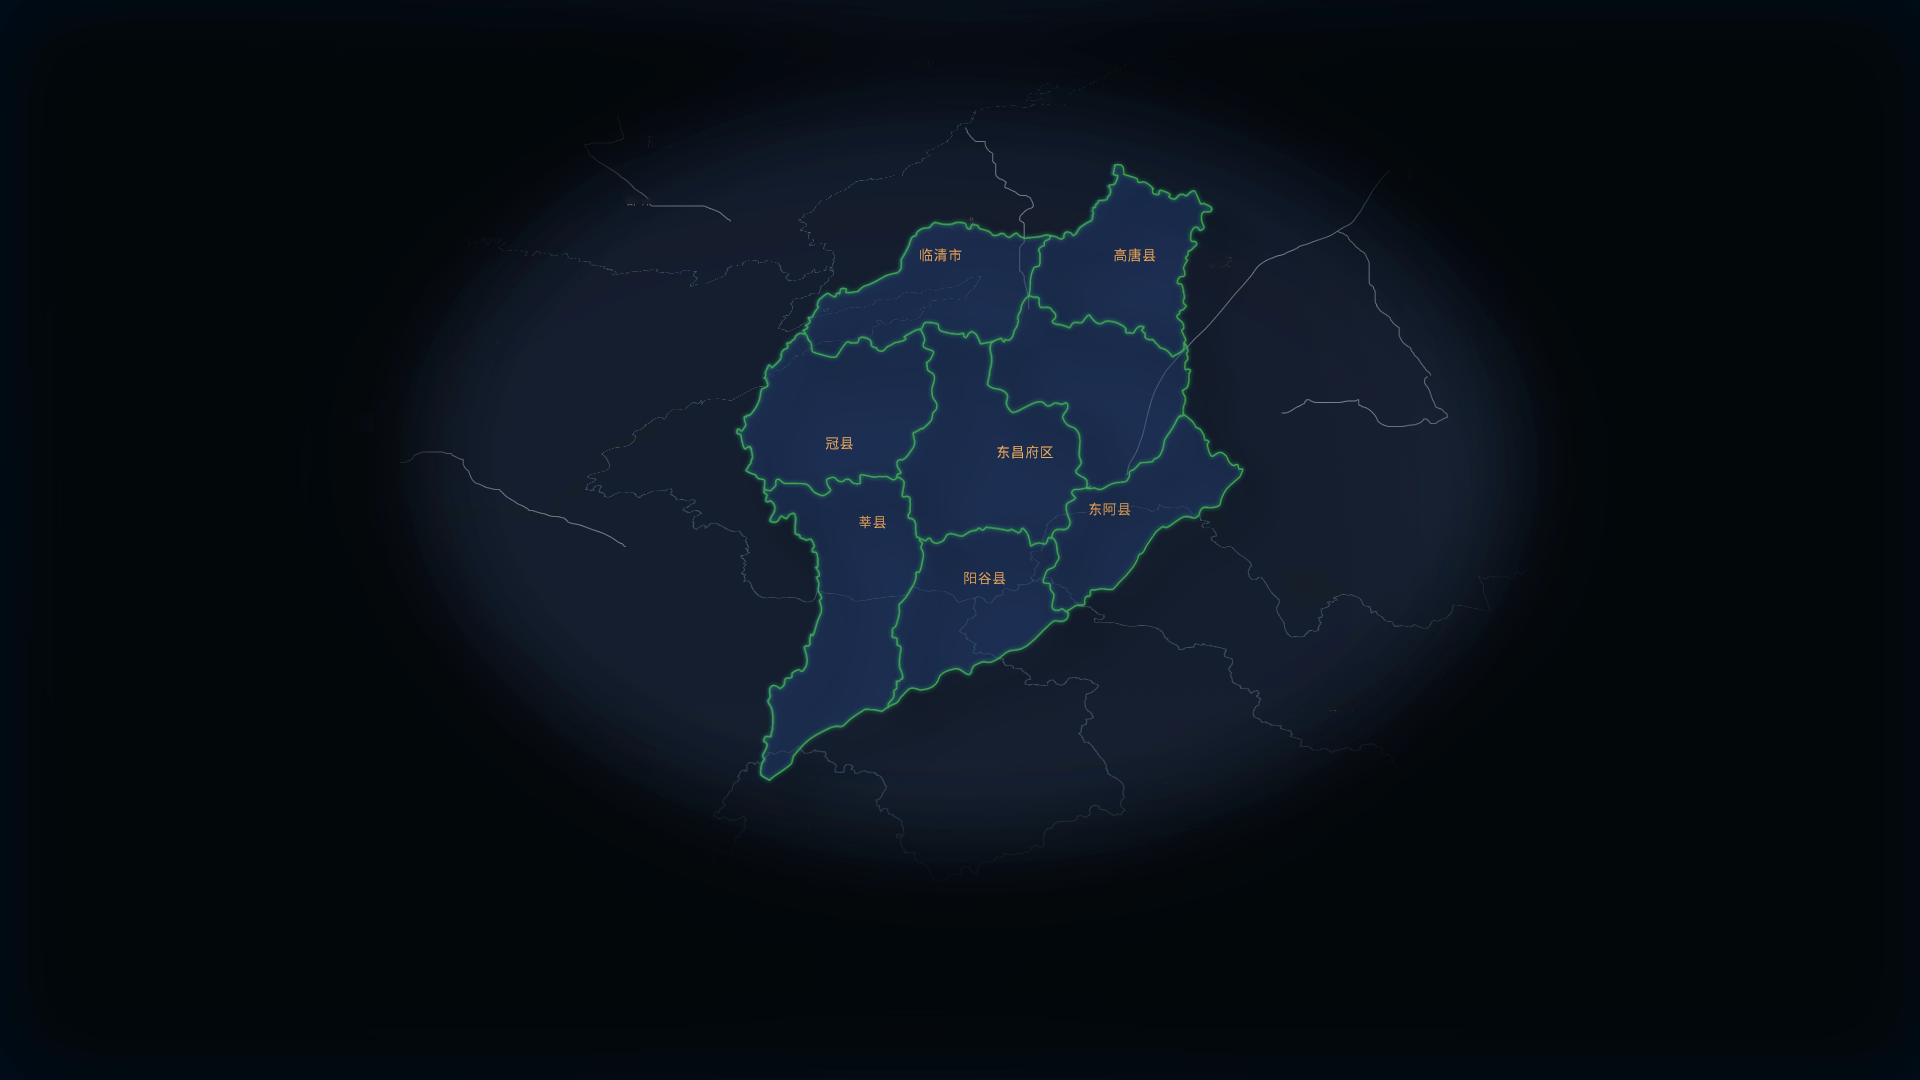
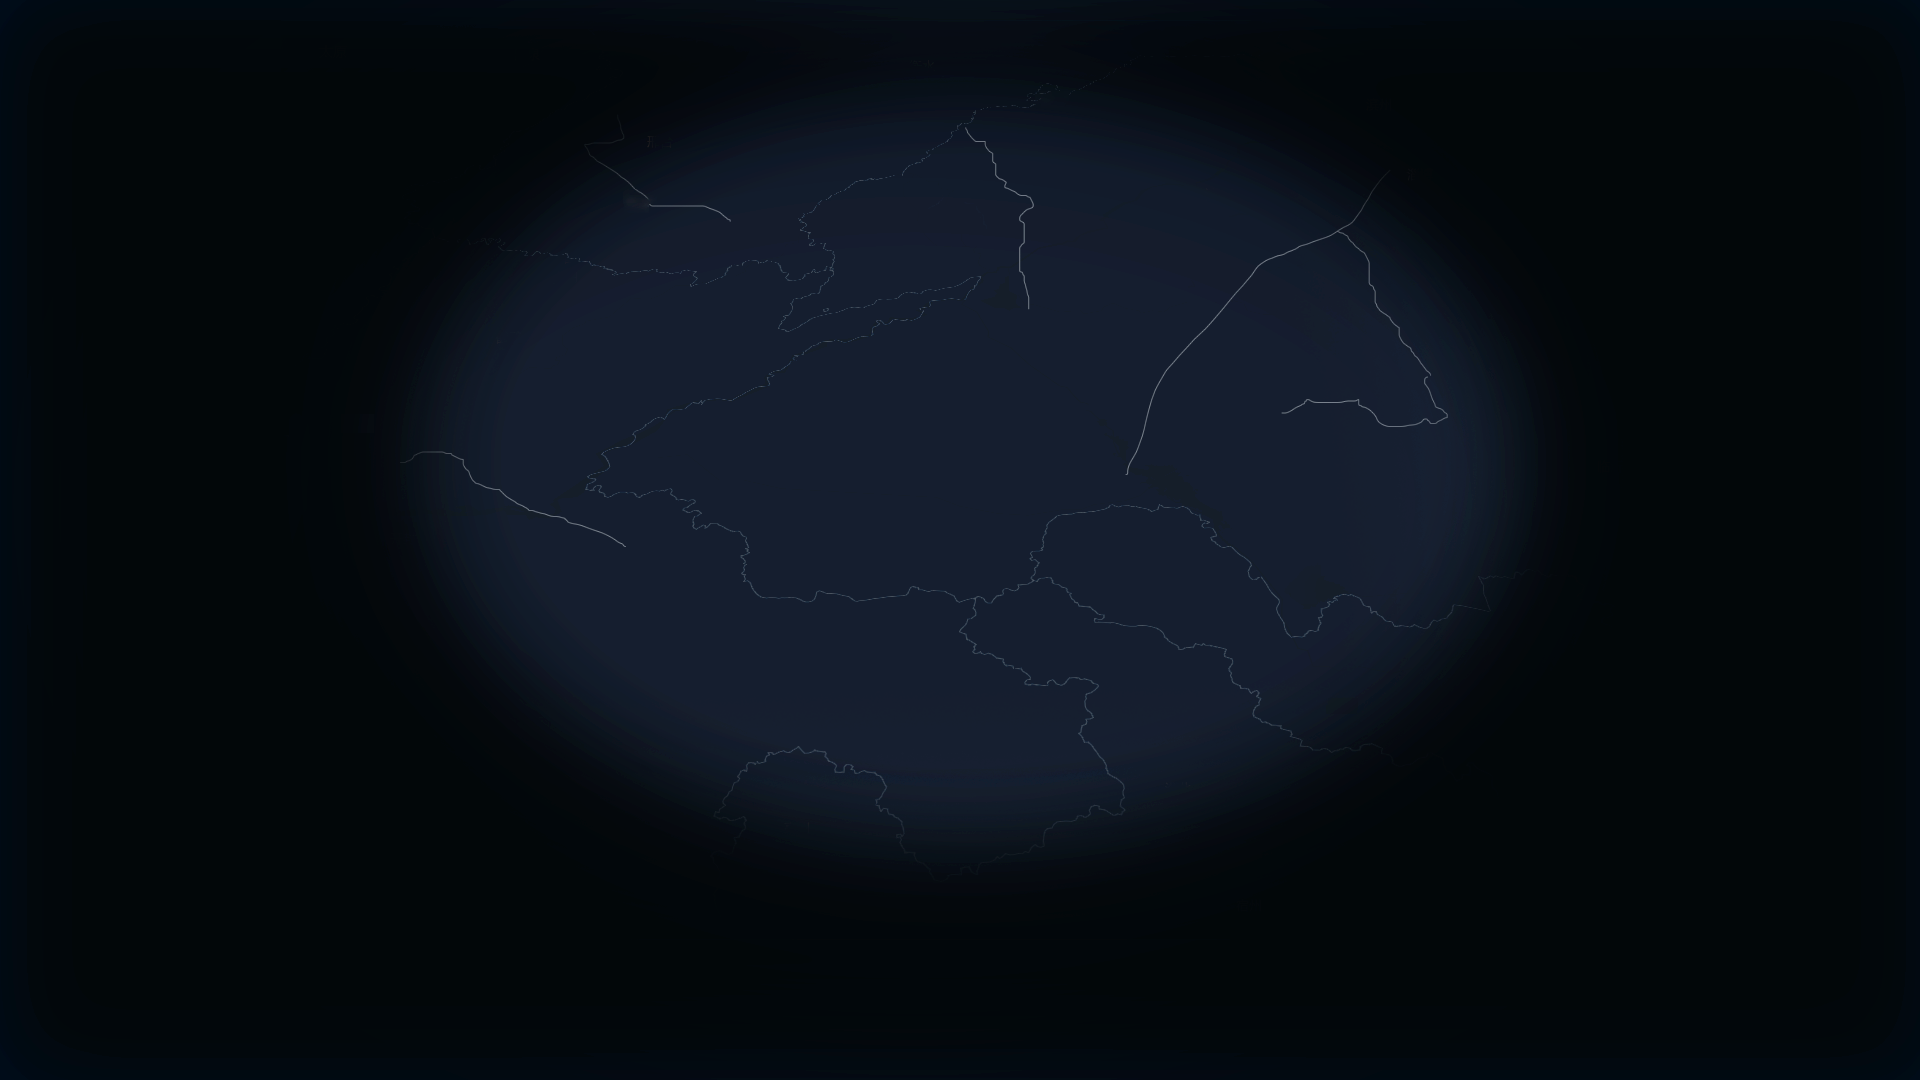
调整大数据首屏

Changed region(s): [[0.375, 0.1528, 0.6562, 0.7333]]

diff --git a/src/views/project/multiScreen/center/atlas/index.vue b/src/views/project/multiScreen/center/atlas/index.vue
@@ -1,0 +1,155 @@
+<template>
+  <div style="height: 100%; width: 100%;"
+       ref="chart">
+  </div>
+</template>
+
+<script>
+import NnCity from '@/components/map/basic/NnCity.json'
+let Echarts = require('echarts/lib/echarts')
+export default {
+  name: 'Index',
+  props: {
+    cityValue: String
+  },
+  watch: {
+    cityValue: {
+      handler (newValue) {
+        this.option.series[0].data = this.option.series[0].data.map(item => {
+          return {
+            ...item,
+            selected: item.value === newValue
+          }
+        })
+        this.$nextTick(() => {
+          this.chart.setOption(this.option, true)
+          this.chart.resize()
+        })
+      },
+      immediate: true
+    }
+  },
+  data () {
+    return {
+      chart: null,
+      option: {
+        grid: {
+          top: 35,
+          left: 55,
+          right: 45,
+          width: 'auto',
+          height: 'auto'
+        },
+        tooltip: {
+          show: false,
+          trigger: 'item',
+          formatter: '{b}'
+        },
+        label: {
+          show: true,
+          fontSize: '12',
+          color: '#000',
+          borderColor: 'transparent',
+          shadowColor: 'transparent',
+          textBorderColor: 'transparent'
+        },
+        textStyle: {
+          color: '#000'
+        },
+        series: [
+          {
+            name: '南宁市',
+            type: 'map',
+            map: 'LS',
+            roam: true,
+            zoom: 2.5,
+            scaleLimit: {
+              min: 1,
+              max: 3
+            },
+            itemStyle: {
+              normal: {
+                borderColor: 'rgba(62,146,84,0.4)', // 边界颜色
+                areaColor: 'rgba(26,43,84,0.4)', // 区域颜色
+                borderWidth: 2,
+                shadowBlur: 5
+              },
+              emphasis: {
+                show: false, // 鼠标移入样式
+                areaColor: 'rgba(26,43,84,1)',
+                borderColor: 'rgba(62,146,84,1)',
+                borderShadow: 'rgba(62,146,84,.5)',
+                shadowBlur: 10
+              }
+            },
+            label: {
+              // 文字样式
+              normal: {
+                show: true,
+                fontSize: 12,
+                color: '#85694F'
+              },
+              emphasis: {
+                color: '#fff',
+                fontWeight: 'normal'
+              }
+            },
+            select: {
+              label: {
+                show: true,
+                color: '#fff'
+              },
+              itemStyle: {
+                areaColor: 'rgba(26,43,84,1)',
+                borderColor: 'rgba(62,146,84,1)',
+                borderShadow: 'rgba(62,146,84,.5)',
+                shadowBlur: 10
+              }
+            },
+            data: [
+              { name: '马山县', value: '450124' },
+              { name: '隆安县', value: '450123' },
+              { name: '武鸣县', value: '450100' },
+              { name: '上林县', value: '450125' },
+              { name: '西乡塘区', value: '450107' },
+              { name: '兴宁区', value: '450102' },
+              { name: '宾阳县', value: '450126' },
+              { name: '江南区', value: '450105' },
+              { name: '青秀区', value: '450103' },
+              { name: '横州市', value: '450127' },
+              { name: '邕宁区', value: '450109' },
+              { name: '良庆区', value: '450108' }
+            ]
+          }
+        ]
+      }
+    }
+  },
+  mounted () {
+    this.init()
+    window.addEventListener('resize', () => {
+      this.chart.resize()
+    })
+  },
+  methods: {
+    init () {
+      const that = this
+      that.chart = Echarts.init(that.$refs.chart)
+      Echarts.registerMap('LS', NnCity)
+      that.chart.setOption(this.option)
+      that.chart.on('click', function (params) {
+        if (that.cityValue === params.value.toString()) {
+          that.chart.setOption(that.option, true)
+        }
+        that.$emit('setCity', params.value.toString())
+      })
+      setTimeout(() => {
+        that.chart.resize()
+      }, 20)
+    }
+  }
+}
+</script>
+
+<style scoped>
+</style>

diff --git a/src/views/project/multiScreen/right/message/index.vue b/src/views/project/multiScreen/right/message/index.vue
@@ -18,49 +18,49 @@ export default {
       warnData: [
         {
           reason: '有人落水之类的详细信息有人落水之类的详细信息',
-          location: '聊城市',
+          location: '南宁市',
           person: '人员1',
           time: '11:45'
         },
         {
           reason: '有人落水之类的详细信息',
-          location: '聊城市',
+          location: '南宁市',
           person: '人员1',
           time: '11:45'
         },
         {
           reason: '有人落水之类的详细信息',
-          location: '聊城市',
+          location: '南宁市',
           person: '人员1',
           time: '11:45'
         },
         {
           reason: '有人落水之类的详细信息',
-          location: '聊城市',
+          location: '南宁市',
           person: '人员1',
           time: '11:45'
         },
         {
           reason: '有人落水之类的详细信息',
-          location: '聊城市',
+          location: '南宁市',
           person: '人员1',
           time: '11:45'
         },
         {
           reason: '有人落水之类的详细信息',
-          location: '聊城市',
+          location: '南宁市',
           person: '人员1',
           time: '11:45'
         },
         {
           reason: '有人落水之类的详细信息',
-          location: '聊城市',
+          location: '南宁市',
           person: '人员1',
           time: '11:45'
         },
         {
           reason: '有人落水之类的详细信息',
-          location: '聊城市',
+          location: '南宁市',
           person: '人员1',
           time: '11:45'
         }

diff --git a/src/views/project/multiScreen/center/index.vue b/src/views/project/multiScreen/center/index.vue
@@ -2,6 +2,8 @@
   <div>
     <caption-data :aqi="23"
                   :co="98" />
+    <atlas-data :cityValue="cityValue"
+                @setCity="setCity" />
     <humidity-data />
   </div>
 </template>
@@ -9,15 +11,22 @@
 <script>
 import CaptionData from './caption/index'
 import HumidityData from './humidity/index'
+import AtlasData from './atlas/index'
 export default {
   name: 'Index',
   components: {
     CaptionData,
-    HumidityData
+    HumidityData,
+    AtlasData
   },
   data () {
     return {
-
+      cityValue: '450103'
+    }
+  },
+  methods: {
+    setCity (name) {
+      console.log(name)
     }
   }
 }

diff --git a/src/main.js b/src/main.js
@@ -38,6 +38,7 @@ import 'swiper/swiper-bundle.css'
 
 // 按需引入echart
 import * as echarts from 'echarts/core'
+import { MapChart } from 'echarts/charts'
 import {
   TitleComponent,
   ToolboxComponent,
@@ -70,7 +71,8 @@ echarts.use([
   GeoComponent,
   CanvasRenderer,
   GridComponent,
-  LegendComponent
+  LegendComponent,
+  MapChart
 ])
 
 SwiperClass.use([Pagination, Mousewheel, Autoplay, EffectFade])

diff --git a/src/views/project/multiScreen/center/humidity/TableCabinet.vue b/src/views/project/multiScreen/center/humidity/TableCabinet.vue
@@ -59,7 +59,7 @@ export default {
       ],
       tableData: [
         {
-          name: '阳谷鑫协再生资源回收利用有限公司',
+          name: '南宁市再生资源回收利用有限公司',
           ex: '40%RH',
           hourCount: '40%RH',
           va1: '40%RH',

diff --git a/src/views/project/multiScreen/left/index.vue b/src/views/project/multiScreen/left/index.vue
@@ -57,7 +57,7 @@ export default {
   },
   data () {
     return {
-      lccontryName: '东昌府区'
+      lccontryName: '青秀区'
     }
   }
 }
